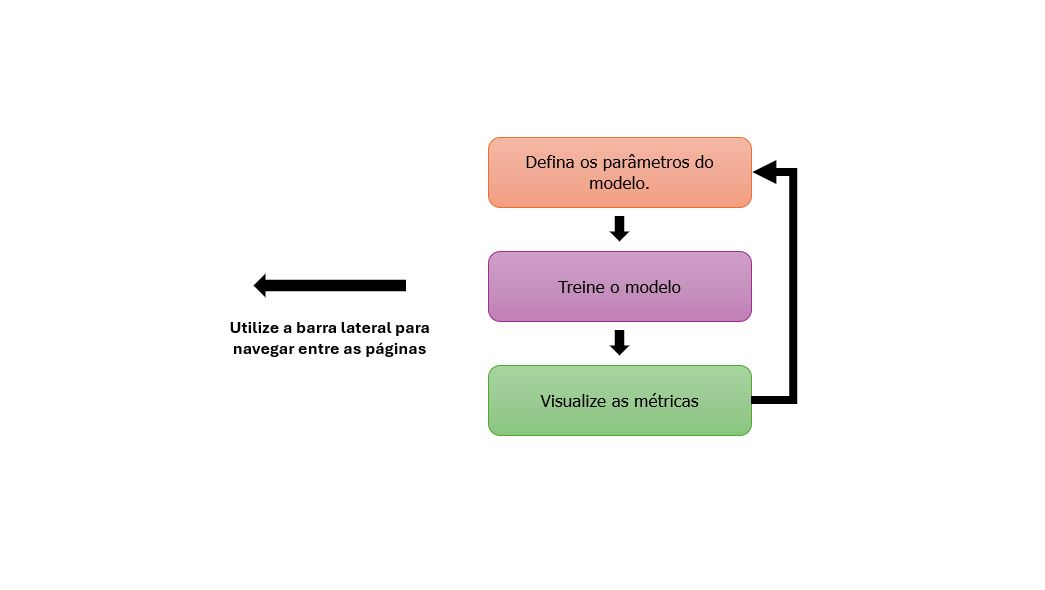
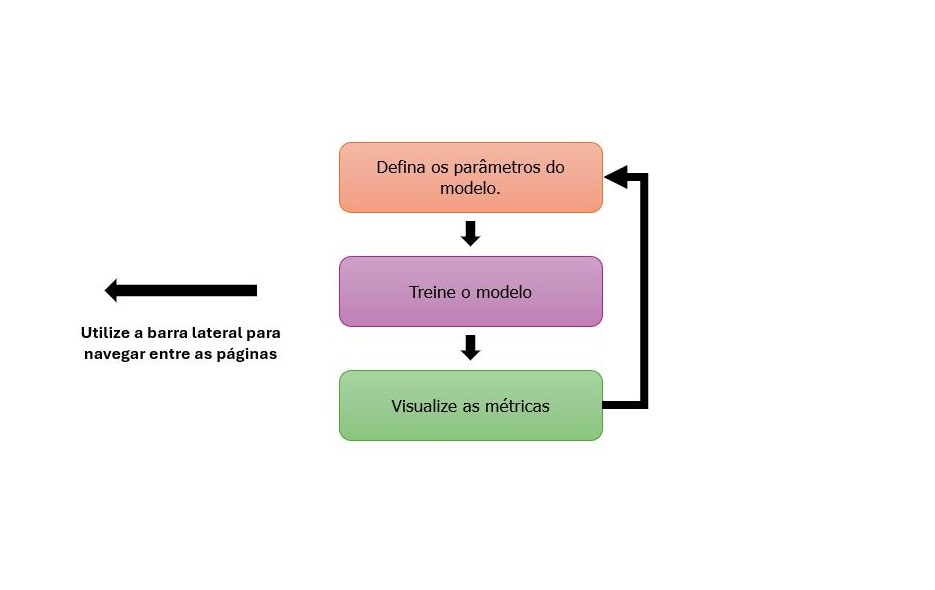
rf_final

Changed region(s): [[0.093, 0.2136, 0.7754, 0.7627]]

diff --git a/modules/instructions.py b/modules/instructions.py
@@ -23,7 +23,7 @@ def show():
     """)
 
     # Carregando a imagem de um arquivo local
-    st.image("images/fluxo.JPG", caption="Fluxo para utilizar o App", use_column_width=True)
+    st.image("images/fluxo.JPG", use_column_width=True)
 
 # Chamando a função show para renderizar o conteúdo
 show()
